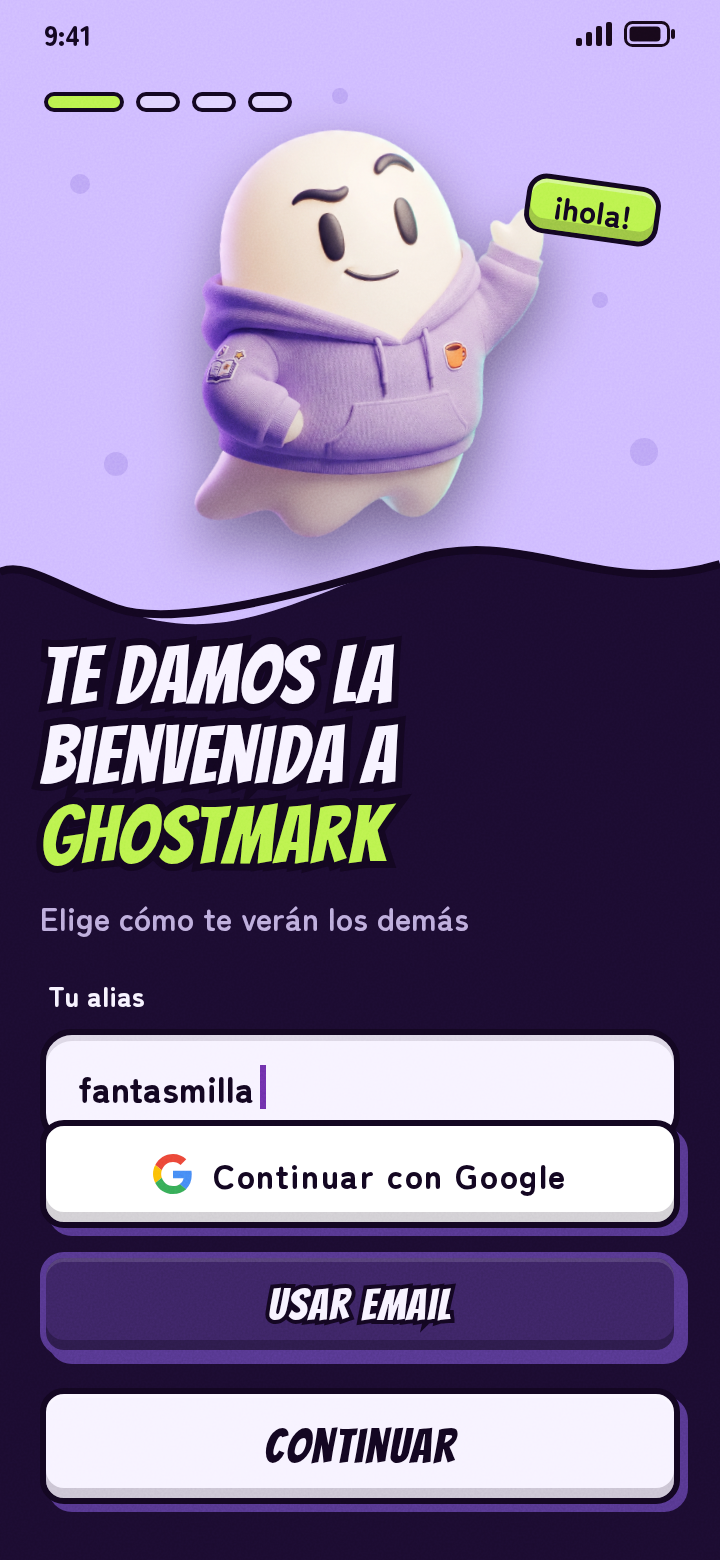
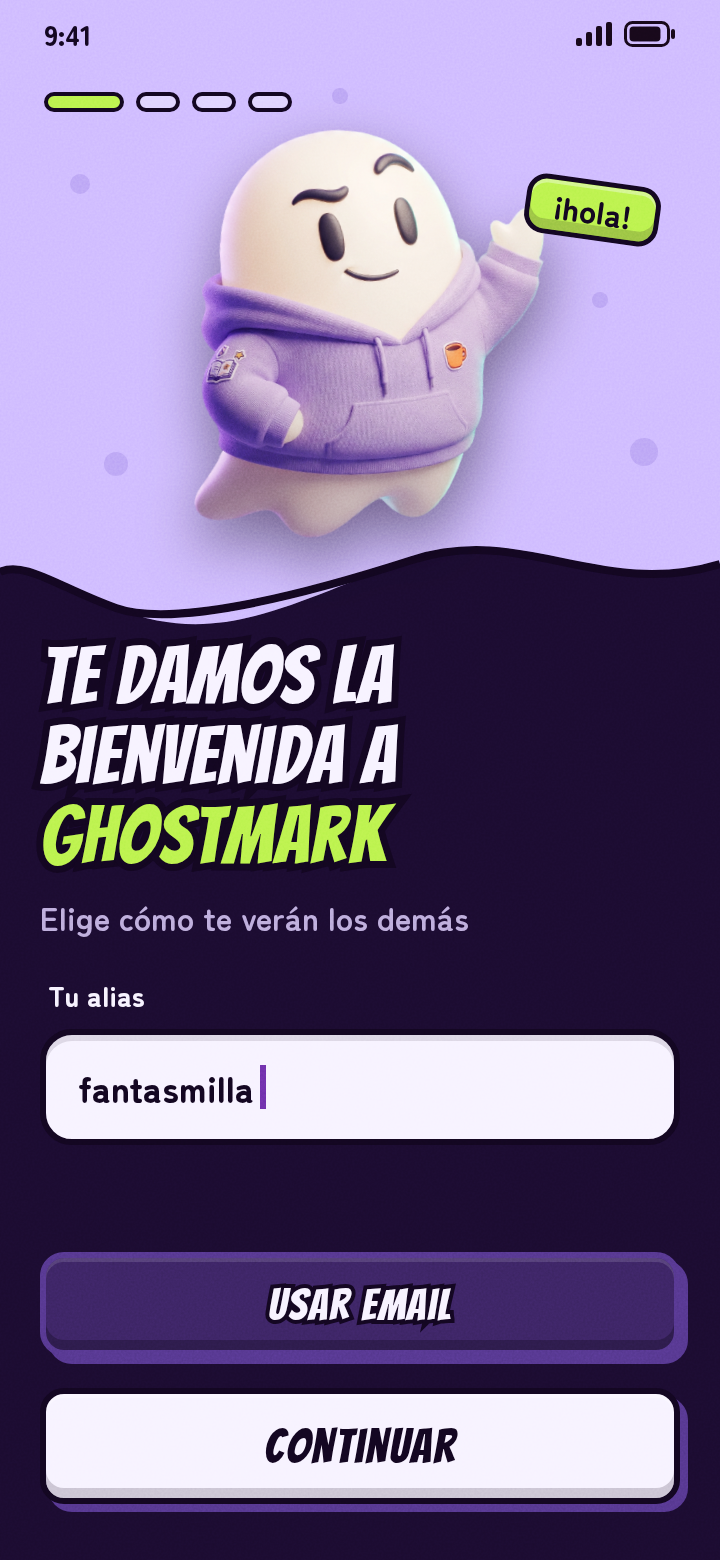
Pila inicial revisada: PBI 4 partida en dos y Acceso con Google como PBI propia
La antigua PBI 4 pasa a ser la 4 (arrancar la partida y formar la cadena)
y la 5 (ver mi objetivo y mi misión). El acceso con Google sale de la PBI 1
y queda como PBI 18. Se actualizan la instantánea inicial y las pantallas.

Changed region(s): [[0.0611, 0.7077, 0.9778, 0.8]]

diff --git a/docs/pilaDeProducto/instantaneas/00-inicial-P1.md b/docs/pilaDeProducto/instantaneas/00-inicial-P1.md
@@ -3,7 +3,7 @@
 
 # 5. Pila del producto inicial
 
-Estas son las funcionalidades de GhostMark, de más a menos prioritaria. Las 16 primeras forman la primera versión, y las 10 últimas, las dos siguientes: Ghostmark Social (L2) y Ghostmark Organizations (L3). La talla es relativa: cualquier S cuesta menos que cualquier M, y así hasta XL. Las de L2 y L3 llevan XXL porque son mayores que cualquier XL y todavía no se han desglosado. Las de la primera versión llevan criterios de satisfacción, con la forma «estará cumplido cuando se pueda hacer X y se verifique que Z». Las cinco primeras tienen además una ficha con aclaraciones y pantallas del prototipo, y el resto se resume en la tabla final. Los requisitos no funcionales están en la definición de hecho, no en la pila.
+Estas son las funcionalidades de GhostMark, de más a menos prioritaria. Las 18 primeras forman la primera versión, y las 10 últimas, las dos siguientes: Ghostmark Social (L2) y Ghostmark Organizations (L3). La talla es relativa: cualquier S cuesta menos que cualquier M, y así hasta XL. Las de L2 y L3 llevan XXL porque son mayores que cualquier XL y todavía no se han desglosado. Las de la primera versión llevan criterios de satisfacción, con la forma «estará cumplido cuando se pueda hacer X y se verifique que Z». Las cinco primeras tienen además una ficha con aclaraciones y pantallas del prototipo, y el resto se resume en la tabla final. Los requisitos no funcionales están en la definición de hecho, no en la pila.
 
 ## Prioridad y tallas
 
@@ -12,39 +12,41 @@ Estas son las funcionalidades de GhostMark, de más a menos prioritaria. Las 16 
 | 1 | Cuenta del jugador (crear cuenta e inicio de sesión) | M | Detallado, sprint 1 |
 | 2 | Crear y configurar una partida | M | Detallado, sprint 1 |
 | 3 | Inscribirse en una partida | M | Detallado, sprint 1 |
-| 4 | Arrancar la partida y generar la cadena de objetivos | L | Detallado, sprint 2 |
-| 5 | Misiones: biblioteca, IA y aprobación del máster | L | Detallado, sprint 2 |
-| 6 | Código de vida y eliminación | XL | Tabla final |
-| 7 | Cierre de partida, ganador y empate | M | Tabla final |
-| 8 | Horarios seguros | M | Tabla final |
-| 9 | Zonas seguras | L | Tabla final |
-| 10 | Disputas y anulación | XL | Tabla final |
-| 11 | Abandonar, expulsar y reportar | M | Tabla final |
-| 12 | Avisos al móvil | M | Tabla final |
-| 13 | Ghostmark Wrapped y borrado de datos al cerrar | M | Tabla final |
-| 14 | Amigos e invitaciones directas | M | Tabla final |
-| 15 | Entradas tardías | S | Tabla final |
-| 16 | Importar el horario lectivo desde el calendario | S | Tabla final |
-| 17 | Modo por equipos | XXL | L2 |
-| 18 | Purga final | XXL | L2 |
-| 19 | Partida relámpago | XXL | L2 |
-| 20 | Co-másters | XXL | L2 |
-| 21 | Perfiles de organización | XXL | L3 |
-| 22 | Plantillas de partida | XXL | L3 |
-| 23 | Panel de estadísticas | XXL | L3 |
-| 24 | Eventos de varias partidas | XXL | L3 |
-| 25 | Validación reforzada | XXL | L3 |
-| 26 | Premios | XXL | L3 |
+| 4 | Arrancar la partida y formar la cadena de objetivos | M | Detallado, sprint 1 |
+| 5 | Ver mi objetivo y mi misión | S | Detallado, sprint 1 |
+| 6 | Misiones: biblioteca, IA y aprobación del máster | L | Tabla final |
+| 7 | Código de vida y eliminación | XL | Tabla final |
+| 8 | Cierre de partida, ganador y empate | M | Tabla final |
+| 9 | Horarios seguros | M | Tabla final |
+| 10 | Zonas seguras | L | Tabla final |
+| 11 | Disputas y anulación | XL | Tabla final |
+| 12 | Abandonar, expulsar y reportar | M | Tabla final |
+| 13 | Avisos al móvil | M | Tabla final |
+| 14 | Ghostmark Wrapped y borrado de datos al cerrar | M | Tabla final |
+| 15 | Amigos e invitaciones directas | M | Tabla final |
+| 16 | Entradas tardías | S | Tabla final |
+| 17 | Importar el horario lectivo desde el calendario | S | Tabla final |
+| 18 | Acceso con Google | S | Tabla final |
+| 19 | Modo por equipos | XXL | L2 |
+| 20 | Purga final | XXL | L2 |
+| 21 | Partida relámpago | XXL | L2 |
+| 22 | Co-másters | XXL | L2 |
+| 23 | Perfiles de organización | XXL | L3 |
+| 24 | Plantillas de partida | XXL | L3 |
+| 25 | Panel de estadísticas | XXL | L3 |
+| 26 | Eventos de varias partidas | XXL | L3 |
+| 27 | Validación reforzada | XXL | L3 |
+| 28 | Premios | XXL | L3 |
 
 ## Fichas de las cinco funcionalidades más prioritarias
 
 ### 1. Cuenta del jugador (crear cuenta e inicio de sesión) · talla M · sprint 1
 
-Se crea una sola vez y sirve para todas las partidas. La cuenta guarda solo el alias, los datos de acceso (email y contraseña, o Google), el horario lectivo y la lista de amigos, sin nombre real ni documentos. Mientras un jugador está en su horario lectivo no puede eliminar ni ser eliminado, y ese horario se congela al arrancar cada partida. El permiso de ubicación y el aviso de disponibilidad del objetivo se aceptan una sola vez, al crear la cuenta.
+Se crea una sola vez y sirve para todas las partidas. La cuenta guarda solo el alias, los datos de acceso (email y contraseña), el horario lectivo y la lista de amigos, sin nombre real ni documentos. Mientras un jugador está en su horario lectivo no puede eliminar ni ser eliminado, y ese horario se congela al arrancar cada partida. El permiso de ubicación y el aviso de disponibilidad del objetivo se aceptan una sola vez, al crear la cuenta. El acceso con una cuenta de Google llega con la 18.
 
 | N.º | Estará cumplido cuando… |
 |--|--------------------------------------------------------|
-| 1 | se pueda crear la cuenta (alias, email y contraseña, o Google) e iniciar sesión, y se verifique que con datos incorrectos no entra |
+| 1 | se pueda crear la cuenta (alias, email y contraseña) e iniciar sesión, y se verifique que con datos incorrectos no entra |
 | 2 | se pueda configurar el horario lectivo y aceptar el permiso de ubicación y el aviso de disponibilidad, y se verifique que se piden una sola vez y que la cuenta solo guarda alias, datos de acceso, horario y amigos |
 | 3 | se pueda borrar la cuenta y todos sus datos en cualquier momento, y se verifique que ya no se puede iniciar sesión y el alias desaparece |
 
@@ -52,7 +54,7 @@ Se crea una sola vez y sirve para todas las partidas. La cuenta guarda solo el a
 
 ### 2. Crear y configurar una partida · talla M · sprint 1
 
-El máster define la partida y la comparte, y a partir de ahí los demás se inscriben. Puede jugar o solo arbitrar: si juega, la aplicación le oculta todo lo que no le corresponde como jugador. Los pasos 3 (misiones) y 4 (zonas seguras) del asistente son las funcionalidades 5 y 9. La invitación directa a amigos llega con la 14.
+El máster define la partida y la comparte, y a partir de ahí los demás se inscriben. Puede jugar o solo arbitrar: si juega, la aplicación le oculta todo lo que no le corresponde como jugador. Los pasos 3 (misiones) y 4 (zonas seguras) del asistente son las funcionalidades 6 y 10. La invitación directa a amigos llega con la 15.
 
 | N.º | Estará cumplido cuando… |
 |--|--------------------------------------------------------|
@@ -74,54 +76,53 @@ Un jugador puede estar en varias partidas a la vez, cada una independiente. Al e
 
 <div><img src="../pantallas/f3-d1.png" alt="Escáner de QR" width="160"><img src="../pantallas/f3-d2.png" alt="Normas" width="160"><img src="../pantallas/f3-d3.png" alt="Sala de espera" width="160"></div>
 
-### 4. Arrancar la partida y generar la cadena de objetivos · talla L · sprint 2
+### 4. Arrancar la partida y formar la cadena de objetivos · talla M · sprint 1
 
-Hacen falta al menos 3 jugadores; si no se llega, la partida se cancela y se avisa a los inscritos. El máster no sabe quién tiene a quién: si juega, solo ve su propio objetivo y su propia misión. La biblioteca curada se carga con esta funcionalidad, porque cada jugador recibe su misión al arrancar. La 5 añade la IA y la aprobación del máster, y las dos van en el mismo sprint.
+La cadena es un único ciclo cerrado: cada jugador persigue a otro y nadie queda fuera. Hacen falta al menos 3 jugadores; si no se llega, la partida se cancela y los inscritos lo ven al abrir la aplicación. El aviso al móvil llega con la 13.
 
 | N.º | Estará cumplido cuando… |
 |--|--------------------------------------------------------|
 | 1 | la partida arranque sola en la fecha de inicio o antes si el máster la adelanta, y se verifique que pasa a estar en juego |
 | 2 | con al menos 3 jugadores se forme un único ciclo cerrado, y se verifique con 3, 4 y 10 jugadores que cada uno tiene un objetivo, es objetivo de otro y no se persigue a sí mismo |
-| 3 | cada jugador vea solo su objetivo y su misión, y se verifique que nadie ve los ajenos, tampoco el máster si juega |
-| 4 | con menos de 3 inscritos la partida se cancele, y se verifique que no llega a arrancar |
+| 3 | con menos de 3 inscritos la partida se cancele, y se verifique que no llega a arrancar |
 
-<div><img src="../pantallas/f4-f1.png" alt="Carta boca abajo" width="160"><img src="../pantallas/f4-f2.png" alt="Carta girada" width="160"></div>
+<div><img src="../pantallas/f4-arranca.png" alt="La partida arranca" width="160"><img src="../pantallas/f4-cancelada.png" alt="Partida cancelada" width="160"></div>
 
-### 5. Misiones: biblioteca, IA y aprobación del máster · talla L · sprint 2
+### 5. Ver mi objetivo y mi misión · talla S · sprint 1
 
-Las misiones son siempre sin contacto físico. Salen de la biblioteca curada, ya revisada, o de una IA a partir de un contexto que da el máster. El máster aprueba siempre las de IA, que antes pasan por una validación de formato y un filtro de categorías prohibidas. Si la IA falla, la biblioteca cubre el hueco.
+Al arrancar, cada jugador recibe un objetivo y una misión en una carta que solo él puede girar. El máster no sabe quién tiene a quién: si juega, solo ve su propio objetivo y su propia misión. Las misiones salen de una biblioteca curada inicial, corta y ya revisada. La 6 la amplía y añade la IA y la aprobación del máster.
 
 | N.º | Estará cumplido cuando… |
 |--|--------------------------------------------------------|
-| 1 | cada jugador reciba al arrancar una misión de la biblioteca curada, y se verifique que ninguna implica contacto físico ni objetos que simulen armas |
-| 2 | el máster pida misiones a la IA con un contexto (por ejemplo «campus») y las apruebe o rechace una a una, y se verifique que ninguna entra en juego sin su aprobación |
-| 3 | se verifique que una misión de IA con formato inválido o de categoría prohibida no llega al máster |
-| 4 | si la IA falla, el máster pueda seguir con misiones de la biblioteca, y se verifique que la partida no se bloquea |
+| 1 | cada jugador vea solo su objetivo y su misión, y se verifique que nadie ve los ajenos, tampoco el máster si juega |
+| 2 | cada jugador reciba al arrancar una misión de la biblioteca curada, y se verifique que ninguna implica contacto físico ni objetos que simulen armas |
 
-<div><img src="../pantallas/f5-e3a.png" alt="Misiones con IA" width="160"><img src="../pantallas/f5-e3b.png" alt="Aprobar misiones" width="160"></div>
+<div><img src="../pantallas/f4-f1.png" alt="Carta boca abajo" width="160"><img src="../pantallas/f4-f2.png" alt="Carta girada" width="160"></div>
 
 ## Resto de la pila
 
 | N.º | Funcionalidad | Estará cumplido cuando… |
 |--|-------|--------------------------------------------|
-| 6 | Código de vida y eliminación | el cazador introduzca el código de su víctima, y se verifique que ella queda eliminada y que él hereda su objetivo y su misión |
-| 7 | Cierre de partida, ganador y empate | la partida termine por último superviviente, por fecha de fin o por decisión del máster, y se verifique que se declara el ganador o el empate que corresponde |
-| 8 | Horarios seguros | un jugador esté en su horario lectivo, y se verifique que no puede eliminar ni ser eliminado |
-| 9 | Zonas seguras | el máster dibuje zonas seguras en el mapa, y se verifique que al introducir un código solo se guarda si el cazador estaba dentro o fuera, nunca su posición |
-| 10 | Disputas y anulación | la víctima dispute una eliminación en los 10 minutos siguientes, y se verifique que, si se le da la razón, revive y la cadena de objetivos se rehace |
-| 11 | Abandonar, expulsar y reportar | un jugador pueda abandonar o reportar y el máster expulsar, y se verifique que, si alguien sale, su cazador hereda su objetivo y su misión |
-| 12 | Avisos al móvil | cambie algo en la partida, y se verifique que el aviso llega al momento y solo a quien toca |
-| 13 | Ghostmark Wrapped y borrado de datos al cerrar | al cerrar la partida cada jugador vea y pueda compartir su Wrapped, y se verifique que de la partida solo queda el resumen agregado |
-| 14 | Amigos e invitaciones directas | un jugador añada amigos por su alias y el máster los invite a una partida, y se verifique que la invitación les llega en la aplicación |
-| 15 | Entradas tardías | un jugador entre tarde si el máster lo permite, y se verifique que la cadena sigue cerrada |
-| 16 | Importar el horario lectivo desde el calendario | un jugador importe su horario desde un fichero .ics, y se verifique que sus clases aparecen en la rejilla y puede corregirlas |
-| 17 | Modo por equipos (L2) | se pueda jugar una partida por equipos |
-| 18 | Purga final (L2) | una partida con fecha límite pueda terminar con un ganador gracias a una purga final |
-| 19 | Partida relámpago (L2) | se pueda jugar una partida corta, pensada para una sola tarde |
-| 20 | Co-másters (L2) | varios másters puedan repartirse la gestión de una partida grande |
-| 21 | Perfiles de organización (L3) | una organización pueda gestionar sus partidas desde un perfil propio |
-| 22 | Plantillas de partida (L3) | una organización pueda reutilizar la configuración de sus partidas |
-| 23 | Panel de estadísticas (L3) | una organización pueda consultar estadísticas agregadas de sus partidas |
-| 24 | Eventos de varias partidas (L3) | una organización pueda agrupar varias partidas en un mismo evento |
-| 25 | Validación reforzada (L3) | las eliminaciones se validen con más garantías frente a las trampas |
-| 26 | Premios (L3) | una organización pueda ofrecer premios con reglas definidas de antemano |
+| 6 | Misiones: biblioteca, IA y aprobación del máster | el máster pida misiones a la IA con un contexto y las apruebe o rechace una a una, y se verifique que ninguna entra en juego sin su aprobación |
+| 7 | Código de vida y eliminación | el cazador introduzca el código de su víctima, y se verifique que ella queda eliminada y que él hereda su objetivo y su misión |
+| 8 | Cierre de partida, ganador y empate | la partida termine por último superviviente, por fecha de fin o por decisión del máster, y se verifique que se declara el ganador o el empate que corresponde |
+| 9 | Horarios seguros | un jugador esté en su horario lectivo, y se verifique que no puede eliminar ni ser eliminado |
+| 10 | Zonas seguras | el máster dibuje zonas seguras en el mapa, y se verifique que al introducir un código solo se guarda si el cazador estaba dentro o fuera, nunca su posición |
+| 11 | Disputas y anulación | la víctima dispute una eliminación en los 10 minutos siguientes, y se verifique que, si se le da la razón, revive y la cadena de objetivos se rehace |
+| 12 | Abandonar, expulsar y reportar | un jugador pueda abandonar o reportar y el máster expulsar, y se verifique que, si alguien sale, su cazador hereda su objetivo y su misión |
+| 13 | Avisos al móvil | cambie algo en la partida, y se verifique que el aviso llega al momento y solo a quien toca |
+| 14 | Ghostmark Wrapped y borrado de datos al cerrar | al cerrar la partida cada jugador vea y pueda compartir su Wrapped, y se verifique que de la partida solo queda el resumen agregado |
+| 15 | Amigos e invitaciones directas | un jugador añada amigos por su alias y el máster los invite a una partida, y se verifique que la invitación les llega en la aplicación |
+| 16 | Entradas tardías | un jugador entre tarde si el máster lo permite, y se verifique que la cadena sigue cerrada |
+| 17 | Importar el horario lectivo desde el calendario | un jugador importe su horario desde un fichero .ics, y se verifique que sus clases aparecen en la rejilla y puede corregirlas |
+| 18 | Acceso con Google | un jugador cree su cuenta o inicie sesión con su cuenta de Google, y se verifique que no se le pide contraseña y que la cuenta guarda los mismos datos |
+| 19 | Modo por equipos (L2) | se pueda jugar una partida por equipos |
+| 20 | Purga final (L2) | una partida con fecha límite pueda terminar con un ganador gracias a una purga final |
+| 21 | Partida relámpago (L2) | se pueda jugar una partida corta, pensada para una sola tarde |
+| 22 | Co-másters (L2) | varios másters puedan repartirse la gestión de una partida grande |
+| 23 | Perfiles de organización (L3) | una organización pueda gestionar sus partidas desde un perfil propio |
+| 24 | Plantillas de partida (L3) | una organización pueda reutilizar la configuración de sus partidas |
+| 25 | Panel de estadísticas (L3) | una organización pueda consultar estadísticas agregadas de sus partidas |
+| 26 | Eventos de varias partidas (L3) | una organización pueda agrupar varias partidas en un mismo evento |
+| 27 | Validación reforzada (L3) | las eliminaciones se validen con más garantías frente a las trampas |
+| 28 | Premios (L3) | una organización pueda ofrecer premios con reglas definidas de antemano |

diff --git a/docs/README.md b/docs/README.md
@@ -16,7 +16,7 @@ Aquí solo se guarda lo que GitHub no registra por sí mismo. La pila, las tarea
 | Manual de usuario | `manual-usuario/` |
 | Memoria del proyecto, por capítulos | `memoria/` |
 
-`pilaDeProducto/pantallas/` guarda las pantallas del prototipo que enlazan los issues de las PBI 1-5 (#2-#6).
+`pilaDeProducto/pantallas/` guarda las pantallas del prototipo que enlazan los issues de las PBI más prioritarias.
 
 ## Qué hay que hacer en cada sprint
 
